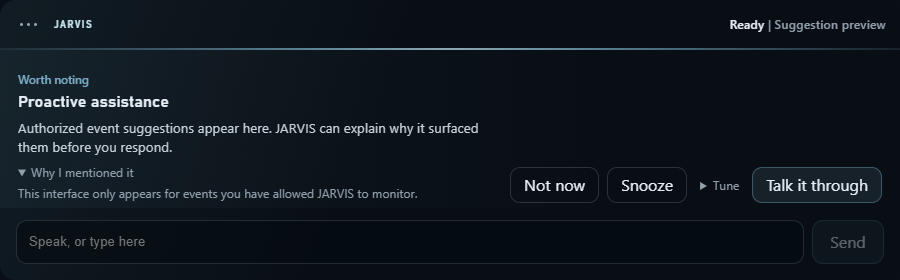
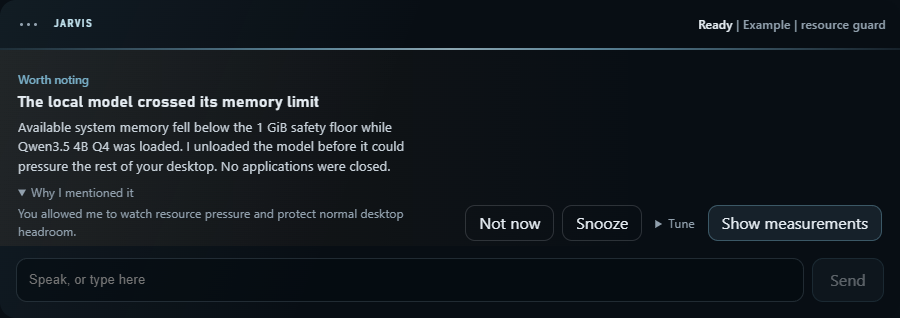
Add useful JARVIS interface states

diff --git a/ui/src/showcase.tsx b/ui/src/showcase.tsx
@@ -1,18 +1,44 @@
-import { ConversationOverlay, type OverlayView } from "./overlay";
+import { ConversationOverlay, JarvisOrb, type OverlayView } from "./overlay";
 import "./showcase.css";
 
-export type ShowcaseScenario = "conversation" | "proactivity" | "approval" | "phone";
+export type ShowcaseScenario =
+  | "conversation"
+  | "proactivity"
+  | "memory"
+  | "privacy"
+  | "approval"
+  | "phone"
+  | "orb";
 
 const NOOP = () => undefined;
 
 export function showcaseScenario(search: string): ShowcaseScenario {
   const candidate = new URLSearchParams(search).get("scenario");
-  return candidate === "proactivity" || candidate === "approval" || candidate === "phone"
-    ? candidate
+  const scenarios: ShowcaseScenario[] = [
+    "conversation",
+    "proactivity",
+    "memory",
+    "privacy",
+    "approval",
+    "phone",
+    "orb",
+  ];
+  return scenarios.includes(candidate as ShowcaseScenario)
+    ? (candidate as ShowcaseScenario)
     : "conversation";
 }
 
 export function Showcase({ scenario }: { scenario: ShowcaseScenario }) {
+  if (scenario === "orb") {
+    return (
+      <main className="showcase showcase--orb">
+        <div className="showcase__surface showcase__surface--orb">
+          <JarvisOrb mode="resting" onActivate={NOOP} />
+        </div>
+      </main>
+    );
+  }
+
   const phone = scenario === "phone";
   return (
     <main className={`showcase showcase--${scenario}`}>
@@ -39,16 +65,56 @@ export function Showcase({ scenario }: { scenario: ShowcaseScenario }) {
 function scenarioView(scenario: ShowcaseScenario): OverlayView {
   if (scenario === "proactivity") {
     return view({
-      detail: "Suggestion preview",
+      detail: "Example | resource guard",
       suggestion: {
-        id: "suggestion-preview",
-        title: "Proactive assistance",
+        id: "resource-guard-example",
+        title: "The local model crossed its memory limit",
         message:
-          "Authorized event suggestions appear here. JARVIS can explain why it surfaced them before you respond.",
-        reason: "This interface only appears for events you have allowed JARVIS to monitor.",
-        suggestedPrompt: "Tell me more.",
-        priority: "normal",
+          "Available system memory fell below the 1 GiB safety floor while Qwen3.5 4B Q4 was loaded. I unloaded the model before it could pressure the rest of your desktop. No applications were closed.",
+        reason: "You allowed me to watch resource pressure and protect normal desktop headroom.",
+        suggestedPrompt: "Show me the model-load measurements.",
+        actionLabel: "Show measurements",
+        priority: "important",
       },
+    });
+  }
+  if (scenario === "memory") {
+    return view({
+      detail: "Example | sourced memory",
+      transcript: [
+        {
+          id: "memory-user",
+          speaker: "user",
+          text: "What did we learn from the 9B model test?",
+          isFinal: true,
+        },
+        {
+          id: "memory-assistant",
+          speaker: "assistant",
+          text: "It took 87.8 seconds to answer and left about 219 MB of available system memory, so it failed the responsiveness and safety gates on this laptop. The decision was to pause daily use until there is hardware with enough headroom for a stronger resident model.",
+          isFinal: true,
+        },
+      ],
+    });
+  }
+  if (scenario === "privacy") {
+    return view({
+      state: "private",
+      detail: "Rolling buffer off",
+      transcript: [
+        {
+          id: "privacy-user",
+          speaker: "user",
+          text: "Go completely private while I take this call.",
+          isFinal: true,
+        },
+        {
+          id: "privacy-assistant",
+          speaker: "assistant",
+          text: "Private mode is on. Wake-word detection remains available, but the 120-second rolling audio buffer is disabled and nothing from the room will be stored.",
+          isFinal: true,
+        },
+      ],
     });
   }
   if (scenario === "approval") {

diff --git a/ui/src/showcase.test.tsx b/ui/src/showcase.test.tsx
@@ -24,22 +24,47 @@ describe("reproducible interface media", () => {
     expect(scope.queryByRole("list", { name: "Conversation transcript" })).not.toBeInTheDocument();
   });
 
-  it("shows proactivity as an interface preview instead of a fabricated event", () => {
+  it("shows a useful proactive resource intervention grounded in a measured event", () => {
     render(<Showcase scenario="proactivity" />);
 
-    expect(screen.getByText("Proactive assistance")).toBeVisible();
-    expect(screen.getByText(/Authorized event suggestions appear here/i)).toBeVisible();
+    expect(screen.getByText("The local model crossed its memory limit")).toBeVisible();
+    expect(screen.getByText(/below the 1 GiB safety floor/i)).toBeVisible();
+    expect(screen.getByText(/No applications were closed/i)).toBeVisible();
+    expect(screen.getByRole("button", { name: "Show measurements" })).toBeVisible();
     fireEvent.click(screen.getByText("Why I mentioned it"));
-    expect(
-      screen.getByText(/only appears for events you have allowed JARVIS to monitor/i),
-    ).toBeVisible();
+    expect(screen.getByText(/protect normal desktop headroom/i)).toBeVisible();
+  });
+
+  it("shows a useful memory example grounded in the measured JARVIS model test", () => {
+    render(<Showcase scenario="memory" />);
+
+    expect(screen.getByText(/What did we learn from the 9B model test/i)).toBeVisible();
+    expect(screen.getByText(/87.8 seconds/i)).toBeVisible();
+    expect(screen.getByText(/219 MB of available system memory/i)).toBeVisible();
+  });
+
+  it("shows a useful private-mode example with the audio behavior made explicit", () => {
+    const rendered = render(<Showcase scenario="privacy" />);
+    const scope = within(rendered.container);
+
+    expect(scope.getByRole("status")).toHaveTextContent("Private mode");
+    expect(scope.getByText(/Go completely private while I take this call/i)).toBeVisible();
+    expect(scope.getByText(/rolling audio buffer is disabled/i)).toBeVisible();
+  });
+
+  it("shows the reusable resting orb without an overlay shell", () => {
+    const { container } = render(<Showcase scenario="orb" />);
+
+    expect(screen.getByRole("button", { name: "Open JARVIS" })).toBeVisible();
+    expect(container.querySelector(".overlay")).not.toBeInTheDocument();
   });
 
   it("labels the approval state as a non-operational interface preview", () => {
-    render(<Showcase scenario="approval" />);
+    const rendered = render(<Showcase scenario="approval" />);
+    const scope = within(rendered.container);
 
-    expect(screen.getByText(/No message will be sent/i)).toBeVisible();
-    expect(screen.queryByRole("list", { name: "Conversation transcript" })).not.toBeInTheDocument();
+    expect(scope.getByText(/No message will be sent/i)).toBeVisible();
+    expect(scope.queryByRole("list", { name: "Conversation transcript" })).not.toBeInTheDocument();
   });
 
   it("shows the real empty phone companion state", () => {
@@ -53,6 +78,9 @@ describe("reproducible interface media", () => {
 
   it("parses only known showcase scenarios", () => {
     expect(showcaseScenario("?scenario=proactivity")).toBe("proactivity");
+    expect(showcaseScenario("?scenario=memory")).toBe("memory");
+    expect(showcaseScenario("?scenario=privacy")).toBe("privacy");
+    expect(showcaseScenario("?scenario=orb")).toBe("orb");
     expect(showcaseScenario("?scenario=phone")).toBe("phone");
     expect(showcaseScenario("?scenario=unknown")).toBe("conversation");
   });

diff --git a/ui/src/overlay.tsx b/ui/src/overlay.tsx
@@ -36,6 +36,7 @@ export type OverlayView = {
     message: string;
     reason: string;
     suggestedPrompt: string;
+    actionLabel?: string;
     priority: "quiet" | "normal" | "important";
   } | null;
   detail: string | null;
@@ -63,6 +64,40 @@ type ConversationOverlayProps = {
   onPairPhone?: () => void;
   onClosePairing?: () => void;
 };
+
+type JarvisOrbProps =
+  | { mode: "resting"; onActivate: () => void }
+  | { mode: "transit"; onActivate?: never };
+
+export function JarvisOrb(props: JarvisOrbProps) {
+  const layers = (
+    <>
+      <span className="transit-orb__wake" />
+      <span className="transit-orb__orbit transit-orb__orbit--outer" />
+      <span className="transit-orb__orbit transit-orb__orbit--inner" />
+      <span className="transit-orb__core" />
+    </>
+  );
+
+  if (props.mode === "resting") {
+    return (
+      <button
+        className="resting-orb"
+        type="button"
+        aria-label="Open JARVIS"
+        onClick={props.onActivate}
+      >
+        {layers}
+      </button>
+    );
+  }
+
+  return (
+    <div className="transit-orb" aria-hidden="true">
+      {layers}
+    </div>
+  );
+}
 
 export function ConversationOverlay(_props: ConversationOverlayProps) {
   const {
@@ -298,7 +333,7 @@ export function ConversationOverlay(_props: ConversationOverlayProps) {
                   onSubmit(view.suggestion?.suggestedPrompt ?? "");
                 }}
               >
-                Talk it through
+                {view.suggestion.actionLabel ?? "Talk it through"}
               </button>
             </div>
           </section>
@@ -379,14 +414,7 @@ export function ConversationOverlay(_props: ConversationOverlayProps) {
           </button>
         ) : null}
       </div>
-      {surface === "desktop" ? (
-        <div className="transit-orb" aria-hidden="true">
-          <span className="transit-orb__wake" />
-          <span className="transit-orb__orbit transit-orb__orbit--outer" />
-          <span className="transit-orb__orbit transit-orb__orbit--inner" />
-          <span className="transit-orb__core" />
-        </div>
-      ) : null}
+      {surface === "desktop" ? <JarvisOrb mode="transit" /> : null}
     </section>
   );
 }

diff --git a/ui/src/overlay.test.tsx b/ui/src/overlay.test.tsx
@@ -2,7 +2,7 @@ import { readFileSync } from "node:fs";
 import { fireEvent, render, screen, within } from "@testing-library/react";
 import { describe, expect, it, vi } from "vitest";
 
-import { ConversationOverlay, type OverlayView } from "./overlay";
+import { ConversationOverlay, JarvisOrb, type OverlayView } from "./overlay";
 
 function view(overrides: Partial<OverlayView> = {}): OverlayView {
   return {
@@ -17,6 +17,18 @@ function view(overrides: Partial<OverlayView> = {}): OverlayView {
 }
 
 describe("ConversationOverlay", () => {
+  it("uses the same orb component for a resting activation control and hidden transit state", () => {
+    const onActivate = vi.fn();
+    const { rerender } = render(<JarvisOrb mode="resting" onActivate={onActivate} />);
+
+    fireEvent.click(screen.getByRole("button", { name: "Open JARVIS" }));
+    expect(onActivate).toHaveBeenCalledTimes(1);
+
+    rerender(<JarvisOrb mode="transit" />);
+    expect(screen.queryByRole("button", { name: "Open JARVIS" })).not.toBeInTheDocument();
+    expect(document.querySelector(".transit-orb")).toHaveAttribute("aria-hidden", "true");
+  });
+
   it("plainly surfaces blocked and unverified product readiness", () => {
     const rendered = render(
       <ConversationOverlay

diff --git a/ui/src/overlay.css b/ui/src/overlay.css
@@ -104,6 +104,31 @@ button {
     transform 180ms var(--ease-out);
 }
 
+.resting-orb {
+  position: relative;
+  width: 96px;
+  aspect-ratio: 1;
+  padding: 0;
+  border: 0;
+  border-radius: 999px;
+  background: transparent;
+  cursor: pointer;
+  filter: drop-shadow(0 0 22px rgba(121, 175, 200, 0.42));
+  transition:
+    filter 180ms ease-out,
+    transform 180ms var(--ease-out);
+}
+
+.resting-orb:hover {
+  filter: drop-shadow(0 0 30px rgba(121, 175, 200, 0.56));
+  transform: scale(1.04);
+}
+
+.resting-orb:focus-visible {
+  outline: 2px solid var(--ion-bright);
+  outline-offset: 8px;
+}
+
 .transit-orb__core,
 .transit-orb__orbit,
 .transit-orb__wake {
@@ -149,6 +174,10 @@ button {
   inset: 42% 72% 42% -62%;
   background: linear-gradient(90deg, transparent, rgba(121, 175, 200, 0.28));
   filter: blur(3px);
+}
+
+.resting-orb .transit-orb__wake {
+  display: none;
 }
 
 html[data-overlay-transit="local"],
@@ -883,6 +912,10 @@ html[data-overlay-transit="cross-monitor"] .transit-orb {
   .button,
   .interrupt,
   .drag-handle {
+    transition: none;
+  }
+
+  .resting-orb {
     transition: none;
   }
 }

diff --git a/ui/src/showcase.css b/ui/src/showcase.css
@@ -39,6 +39,13 @@ body {
     linear-gradient(112deg, rgba(121, 175, 200, 0.09), transparent 42%), rgba(8, 14, 20, 0.98);
 }
 
+.showcase__surface--orb {
+  display: grid;
+  width: 180px;
+  height: 180px;
+  place-items: center;
+}
+
 .showcase--phone {
   padding: 20px;
   background: #0b1118;

diff --git a/README.md b/README.md
@@ -83,9 +83,29 @@ Every action re-enters a deterministic policy engine immediately before executio
 
 ### JARVIS can notice what matters
 
-Proactivity is tied to authorized events and personal preferences. Suggestions have dedicated controls for explanation, dismissal, snoozing, feedback, and follow-up. A suggestion does not authorize an action.
+Proactivity is tied to authorized events and personal preferences. The example below uses the measured 4B model test from this project. JARVIS protects the desktop memory floor, reports the intervention, confirms that no applications were closed, and offers the underlying measurements. Suggestions have dedicated controls for explanation, dismissal, snoozing, feedback, and follow-up. A suggestion does not authorize a new action.
 
 ![JARVIS proactive-assistance interface](docs/assets/proactive-assistance.png)
+
+### Memory carries decisions forward
+
+JARVIS should answer from sourced history instead of making me reconstruct old decisions. This example uses the measured 9B model result from this project and recalls both the finding and the decision that followed it.
+
+![JARVIS recalling the measured local-model decision](docs/assets/memory-continuity.png)
+
+### Private mode is explicit
+
+When I ask JARVIS to go completely private, the rolling room-audio buffer is disabled and the interface confirms exactly what remains active and what will not be stored.
+
+![JARVIS confirming private mode and disabled ambient buffering](docs/assets/private-mode.png)
+
+### Present without taking over the screen
+
+JARVIS does not need a full conversation panel when there is nothing to show. The compact orb keeps the interface available without covering the current work. The same visual component is used while the overlay relocates, which keeps the transition coherent instead of making the interface disappear and reappear.
+
+<p align="center">
+  <img src="docs/assets/resting-orb.png" width="180" alt="JARVIS resting orb interface state" />
+</p>
 
 ### The phone reaches the same JARVIS
 
@@ -128,7 +148,7 @@ The infrastructure work is part of the product. The repository includes Windows 
 | Layer | Fresh result |
 | --- | ---: |
 | Python | 308 tests passed |
-| React / TypeScript | 64 tests passed |
+| React / TypeScript | 68 tests passed |
 | Rust / Tauri | 20 tests passed |
 | Python coverage | 86.59% |
 | Formatting, linting, typing, contract drift, builds | Passed |

diff --git a/STATUS.md b/STATUS.md
@@ -12,7 +12,7 @@ I understand the limits of this machine and am looking at better hardware that c
 
 ## Evidence at the pause point
 
-- `pnpm verify` passed with 308 Python tests, 64 React/TypeScript tests, 20 Rust tests, and 86.59% Python coverage.
+- `pnpm verify` passed with 308 Python tests, 68 React/TypeScript tests, 20 Rust tests, and 86.59% Python coverage.
 - Capability acceptance passed isolated real file write/read/undo, bounded process execution, exact approval binding, rejection, replay denial, destructive-command denial, cancellation, and audit scenarios.
 - Recovery acceptance passed integrity validation, rollback preservation, atomic restoration, and corrupt-source rejection.
 - The latest packaged Python core started independently, exposed authenticated diagnostics, found the packaged speech dependencies, and kept the model unloaded.
